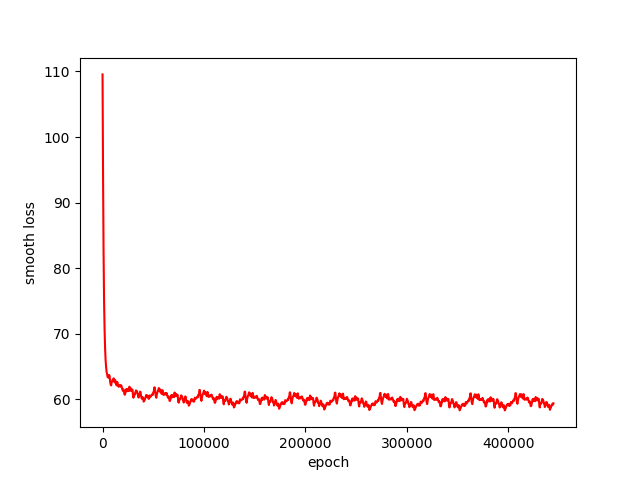
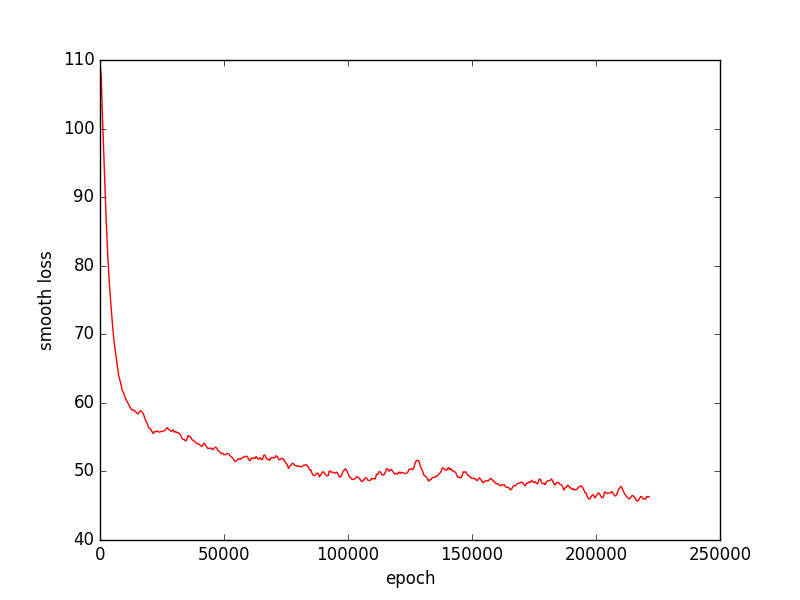
Add files via upload

diff --git a/assignment4.py b/assignment4.py
@@ -1,12 +1,14 @@
 import numpy as np
 import matplotlib.pyplot as plt
+import time
 # IMPORT DATA IS D * 1
 with open('goblet_book.txt','r') as f:
     data = f.read()
 
-m = 5
+m = 100
 d = 80
-MAX_EPOCH = 10
+MAX_EPOCH = 100
+
 def give_dictionary(data):
     dictionary = {}
     inverse_dictionary = {}
@@ -33,24 +35,27 @@ def one_hot_label(dictionary, data, Parameters):  # Will not give the whole one-
 def one_hot(one_hot_label_x, one_hot_label_y, start, Parameters):
     if start + Parameters.seq_len > np.shape(one_hot_label_x)[1]:
         start = np.shape(one_hot_label_x) - Parameters.seq_len
-    one_hot_label_x_part = one_hot_label_x[:,start:start+Parameters.seq_len]
-    one_hot_label__y_part = one_hot_label_y[:,start:start+Parameters.seq_len]
-    return one_hot_label_x_part, one_hot_label__y_part
-    
-    
+    one_hot_label_x_part = one_hot_label_x[:,start:start + Parameters.seq_len]
+    one_hot_label_y_part = one_hot_label_y[:,start:start + Parameters.seq_len]
+    return one_hot_label_x_part, one_hot_label_y_part
+
+
+
 # define initial parameters
 def initialization(m,d):
     W = np.random.normal(0,1,[m,m]) * 0.01
+    #W = np.random.rand(m,m) * 0.01
     b = np.zeros([m,1])
     U = np.random.normal(0,1,[m,d]) * 0.01
+    #U = np.random.rand(m,d) * 0.01
     V = np.random.normal(0,1,[d,m]) * 0.01
+    #V = np.random.rand(d,m) * 0.01
     C = np.zeros([d,1])
     return W, b, U, V, C
 
 class Inter_parameters(object):
     def __init__(self,m,d):
         self.initial_learning_rate = 0.1
-        self.regularization = 0.001
         self.seq_len = 25 # MAX TIME STEP
         self.h = np.zeros([m,self.seq_len])
         self.a = np.zeros([m,self.seq_len])
@@ -66,13 +71,13 @@ class Gradient_class(object):
         self.grad_U = np.zeros(np.shape(Changable.U))
         self.grad_V = np.zeros(np.shape(Changable.V))
         self.grad_c = np.zeros(np.shape(Changable.C))
-        self.grad_h = np.zeros(np.shape(Parameters.h))
-        self.grad_a = np.zeros(np.shape(Parameters.a))
+        self.grad_h = 0 #np.zeros(np.shape(Parameters.h))
+        self.grad_a = 0 #np.zeros(np.shape(Parameters.a))
         self.grad_o = np.zeros(np.shape(Parameters.o))
 
 
     def AdamGradOptimizer(self,Changable, Parameters, W_before, V_before, U_before, b_before, C_before):
-    
+
         W_after = W_before + np.power(self.grad_W,2)
         V_after = V_before + np.power(self.grad_V,2)
         U_after = U_before + np.power(self.grad_U,2)
@@ -102,6 +107,7 @@ class Changable_parameters(object):
         self.V = V
         self.C = C
 
+
     def Compute_P(self, Parameters, X):
 
         def softmax(x):
@@ -120,7 +126,7 @@ class Changable_parameters(object):
                 Parameters.h[:,i] = np.tanh(Parameters.a[:,i])
                 Parameters.o[:,i] = np.reshape(np.dot(self.V, np.reshape(Parameters.h[:,i],[-1,1])) + self.C, d)
                 Parameters.p[:,i] = softmax(Parameters.o[:,i])
-        
+        Parameters.h0 = np.reshape(Parameters.h[:,Parameters.seq_len - 1], np.shape(Parameters.h0))
         return Parameters
 
     def Compute_loss(self, Parameters, Y):
@@ -152,36 +158,35 @@ class Changable_parameters(object):
     #    print(Gradient.grad_o.shape)
         for i in range(Parameters.seq_len)[::-1]:
             if i == Parameters.seq_len - 1:
-                Gradient.grad_h[:,i] = np.dot(Gradient.grad_o[i,:].T, Changable.V)
-                Gradient.grad_a[:, i] = Gradient.grad_h[:, i] * (1 - np.power(np.tanh(Parameters.a[:, i]), 2))
-                Gradient.grad_U = Gradient.grad_U + np.dot(np.reshape(Gradient.grad_a[:,i], [m,1]), np.reshape(X[:,i], [1,d])) 
-                Gradient.grad_b = Gradient.grad_b + np.reshape(Gradient.grad_a[:,i], [m,1])
-           
+                grad_o = np.reshape(Gradient.grad_o[i,:], [1,d])
+                x = np.reshape(X[:,i], [1,d])
+
+                Gradient.grad_h = np.dot(grad_o, Changable.V)
+                Gradient.grad_a = Gradient.grad_h * (1 - np.power(np.tanh(Parameters.a[:,i]),2))
+                Gradient.grad_b = Gradient.grad_b + Gradient.grad_a.T
+                Gradient.grad_U = Gradient.grad_U + np.dot(Gradient.grad_a.T, x)
             else:
-                Gradient.grad_h[:,i] = np.dot(Gradient.grad_o[i,:].T, Changable.V) + np.dot(Changable.W ,Gradient.grad_a[:,i+1])
-                Gradient.grad_a[:,i] = Gradient.grad_h[:,i] * (1 - np.power(np.tanh(Parameters.a[:,i]),2))
-                Gradient.grad_U = Gradient.grad_U + np.dot(np.reshape(Gradient.grad_a[:, i], [m, 1]), np.reshape(X[:, i], [1,d]))
-                Gradient.grad_b = Gradient.grad_b + np.reshape(Gradient.grad_a[:, i], [m, 1])
-                Gradient.grad_W = Gradient.grad_W + np.dot(np.reshape(Gradient.grad_a[:,i+1], [m,1]),np.reshape(Parameters.h[:,i],[1,m]))
-     
-        Gradient.grad_W = Gradient.grad_W + np.dot(Gradient.grad_a[:, 0], Parameters.h0)
-            
+                grad_o = np.reshape(Gradient.grad_o[i,:], [1,d])
+                x = np.reshape(X[:,i], [1,d])
+                Gradient.grad_h = np.dot(grad_o, Changable.V) + np.dot(Gradient.grad_a,Changable.W)
 
+                Gradient.grad_W = Gradient.grad_W + np.dot(Gradient.grad_a.T ,np.reshape(Parameters.h[:,i], [1,m]))
 
-        # H_inter = Parameters.h
-        # H_inter = np.delete(H_inter, Parameters.seq_len-1, 1)
-        # H_inter = np.c_[np.reshape(Parameters.h0,[m,1]), H_inter]
+                Gradient.grad_a = Gradient.grad_h * (1 - np.power(np.tanh(Parameters.a[:,i]),2))
+                Gradient.grad_b = Gradient.grad_b + Gradient.grad_a.T
+                Gradient.grad_U = Gradient.grad_U + np.dot(Gradient.grad_a.T, x)
 
-        # Gradient.grad_W = np.dot(Gradient.grad_a, H_inter.T)
-        # Gradient.grad_U = np.dot(Gradient.grad_a, X.T)
-        # Gradient.grad_b = np.reshape(np.sum(Gradient.grad_a,1), [m,1])
+        Gradient.grad_W = Gradient.grad_W + np.dot(Gradient.grad_a.T, Parameters.h0.T)
         Gradient.grad_c = np.reshape(np.sum(Gradient.grad_o,0), [-1,1])
         Gradient.grad_o = Gradient.grad_o.T
-        
+
         return Gradient
 
     def Numerical_Gradient(self,Parameters,X,Y):
-
+        # h0 = Parameters.h0
+        # # print(np.dot(self.W, h0).shape)
+        # # print(np.dot(self.U, np.reshape(X[:,0],[-1,1])).shape)
+        # # print(self.b.shape)
         def Compute_loss(self, Parameters, Y):
             loss = -np.sum(Y * np.log(Parameters.p))
             return loss
@@ -202,65 +207,125 @@ class Changable_parameters(object):
                     Parameters.h[:,i] = np.tanh(Parameters.a[:,i])
                     Parameters.o[:,i] = np.reshape(np.dot(self.V, np.reshape(Parameters.h[:,i],[-1,1])) + self.C, d)
                     Parameters.p[:,i] = softmax(Parameters.o[:,i])
-            
             return Parameters
 
         grad_W = np.zeros(np.shape(self.W))
         for i in range(self.W.shape[0]):
             for j in range(self.W.shape[1]):
                 self_try = self
-                self_try.W[i][j] = self.W[i][j]-0.0001
+                self_try.W[i][j] = self.W[i][j]-0.00000001
                 Parameters = Compute_P(self_try, Parameters, X)
                 loss_1 = Compute_loss(self_try, Parameters, Y)
-                self.W[i][j] += 0.0001
-                self_try.W[i][j] = self.W[i][j] + 0.0001
+                self.W[i][j] += 0.00000001
+                self_try.W[i][j] = self.W[i][j] + 0.00000001
                 Parameters = Compute_P(self_try, Parameters, X)
                 loss_2 = Compute_loss(self_try, Parameters, Y)
-                grad_W[i][j] = (loss_2 - loss_1) / 0.0002
+                grad_W[i][j] = (loss_2 - loss_1) / 0.00000002
 
-        return grad_W
+        grad_V = np.zeros(np.shape(self.V))
+        for i in range(self.V.shape[0]):
+            for j in range(self.V.shape[1]):
+                self_try = self
+                self_try.V[i][j] = self.V[i][j]-0.00000001
+                Parameters = Compute_P(self_try, Parameters, X)
+                loss_1 = Compute_loss(self_try, Parameters, Y)
+                self.V[i][j] += 0.000001
+                self_try.V[i][j] = self.V[i][j] + 0.000001
+                Parameters = Compute_P(self_try, Parameters, X)
+                loss_2 = Compute_loss(self_try, Parameters, Y)
+                grad_V[i][j] = (loss_2 - loss_1) / 0.000002
+
+        grad_U = np.zeros(np.shape(self.U))
+        for i in range(self.W.shape[0]):
+            for j in range(self.W.shape[1]):
+                self_try = self
+                self_try.U[i][j] = self.U[i][j]-0.000001
+                Parameters = Compute_P(self_try, Parameters, X)
+                loss_1 = Compute_loss(self_try, Parameters, Y)
+                self.U[i][j] += 0.000001
+                self_try.U[i][j] = self.U[i][j] + 0.000001
+                Parameters = Compute_P(self_try, Parameters, X)
+                loss_2 = Compute_loss(self_try, Parameters, Y)
+                grad_U[i][j] = (loss_2 - loss_1) / 0.000002
+
+        grad_b = np.zeros(np.shape(self.b))
+        for i in range(self.b.shape[0]):
+            for j in range(self.b.shape[1]):
+                self_try = self
+                self_try.b[i][j] = self.b[i][j]-0.000001
+                Parameters = Compute_P(self_try, Parameters, X)
+                loss_1 = Compute_loss(self_try, Parameters, Y)
+                self.b[i][j] += 0.000001
+                self_try.b[i][j] = self.b[i][j] + 0.000001
+                Parameters = Compute_P(self_try, Parameters, X)
+                loss_2 = Compute_loss(self_try, Parameters, Y)
+                grad_b[i][j] = (loss_2 - loss_1) / 0.000002
+
+        grad_c = np.zeros(np.shape(self.C))
+        for i in range(self.C.shape[0]):
+            for j in range(self.C.shape[1]):
+                self_try = self
+                self_try.C[i][j] = self.C[i][j]-0.000001
+                Parameters = Compute_P(self_try, Parameters, X)
+                loss_1 = Compute_loss(self_try, Parameters, Y)
+                self.C[i][j] += 0.000001
+                self_try.C[i][j] = self.C[i][j] + 0.000001
+                Parameters = Compute_P(self_try, Parameters, X)
+                loss_2 = Compute_loss(self_try, Parameters, Y)
+                grad_c[i][j] = (loss_2 - loss_1) / 0.000002
+        return grad_W, grad_V, grad_U, grad_b, grad_c
 
 
 
 def train(Changable, Parameters, data, dictionary, inverse_dictionary):
     one_hot_label_x, one_hot_label_y = one_hot_label(dictionary, data, Parameters)
-    
     train_step_in_a_epoch = int(len(list(data))/Parameters.seq_len)
     smooth_loss = 0
     SMOOTH_LOSS = []
-    for epoch in range(10):
+
+    for epoch in range(2):
         start = 0
+
         for i in range(train_step_in_a_epoch):
-            if start + Parameters.seq_len > len(list(data)):
-                start = len(list(data)) - Parameters.seq_len
+
+            if start + Parameters.seq_len + 1 > len(list(data)):
+                start = len(list(data)) - Parameters.seq_len - 1
+
             X, Y = one_hot(one_hot_label_x, one_hot_label_y, start, Parameters)
             start = start + Parameters.seq_len
             Parameters = Changable.Compute_P(Parameters, X)
             loss = Changable.Compute_loss(Parameters, Y)
 
-
             if i == 0 and epoch == 0:
                 smooth_loss = loss
-            smooth_loss = 0.999*smooth_loss + 0.001*loss
-            if i % 500 == 0:
+            smooth_loss = 0.999 * smooth_loss + 0.001 * loss
+            if i % 200 == 0:
                 print("EPOCH : ", epoch, "STEP :", i)
                 print(smooth_loss)
                 SMOOTH_LOSS.append(smooth_loss)
+
             Gradient = Gradient_class(Changable, Parameters)
             Gradient = Changable.Compute_Gradient(Gradient, Parameters, Changable, X, Y)
-            # grad_V = Changable.Numerical_Gradient(Parameters,X,Y)
-            # grad_V_com = Gradient.grad_W
-            # print(grad_V)
-            # print(grad_V_com)
-            # print((grad_V-grad_V_com)/grad_V)
-            # exit()
+            #
+            # grad_W, grad_V, grad_U, grad_b, grad_c = Changable.Numerical_Gradient(Parameters, X, Y)
+            # grad_W_an = Gradient.grad_W
+            # grad_U_an = Gradient.grad_U
+            # grad_V_an = Gradient.grad_V
+            # grad_b_an = Gradient.grad_b
+            # grad_c_an = Gradient.grad_c
+            # # print(grad_U)
+            # # print(grad_U_an)
+            # print((grad_b -  grad_b_an)/grad_b)
+            # print((grad_c -  grad_c_an)/grad_c)
+            # print((grad_U[0] - grad_U_an[0]) / grad_U[0])
+            # print((grad_W[0] - grad_W_an[0]) / grad_W[0])
+            # print((grad_V[0] - grad_V_an[0]) / grad_V[0])
+
             if i % 10000 == 0:
                 Text = []
                 Character = []
                 X_test = np.zeros([d,1])
-                a = np.random.rand() * 70.0
-                a = int(a)
-                X_test[a] = 1
+                X_test[1] = 1
                 Text.append(X_test)
                 for j in range(1000):
                     prediction = Changable.Compute_prediction(Parameters, inverse_dictionary, Text[j])
@@ -272,7 +337,7 @@ def train(Changable, Parameters, data, dictionary, inverse_dictionary):
                 output = ''.join(Character)
                 print(output)
 
-            if i == 0:
+            if i == 0 and epoch == 0:
                 W_before = 0
                 V_before = 0
                 U_before = 0
@@ -284,29 +349,29 @@ def train(Changable, Parameters, data, dictionary, inverse_dictionary):
                 U_before = U_after
                 b_before = b_after
                 C_before = C_after
-
             Changable, W_after, V_after, U_after, b_after, C_after  = Gradient.AdamGradOptimizer(Changable,Parameters,W_before, V_before, U_before, b_before, C_before)
-            Parameters.h0 = Parameters.h[:, Parameters.seq_len-1]
+            # Parameters.h0 = np.reshape(h00,[m,1])
+            # print(Parameters.h0)
     return Changable, SMOOTH_LOSS
+
+
 
 dictionary, inverse_dictionary = give_dictionary(data)
 Parameters = Inter_parameters(m,d)
 W,b,U,V,C = initialization(m,d)
 Changable = Changable_parameters(W,b,U,V,C)
-
 Changable, SMOOTH_LOSS =  train(Changable, Parameters, data, dictionary, inverse_dictionary)
 para_dic = {}
 X_axis = range(0, 500*len(SMOOTH_LOSS), 500)
-
 plt.figure()
-
 plt.xlabel("epoch")
 plt.ylabel("smooth loss")
 plt.plot(X_axis,SMOOTH_LOSS,'r')
 plt.savefig('smooth_loss.png')
 plt.legend()
-
 plt.show()
+
+
 
 # prediction = Changable.Compute_prediction(Parameters)
 
